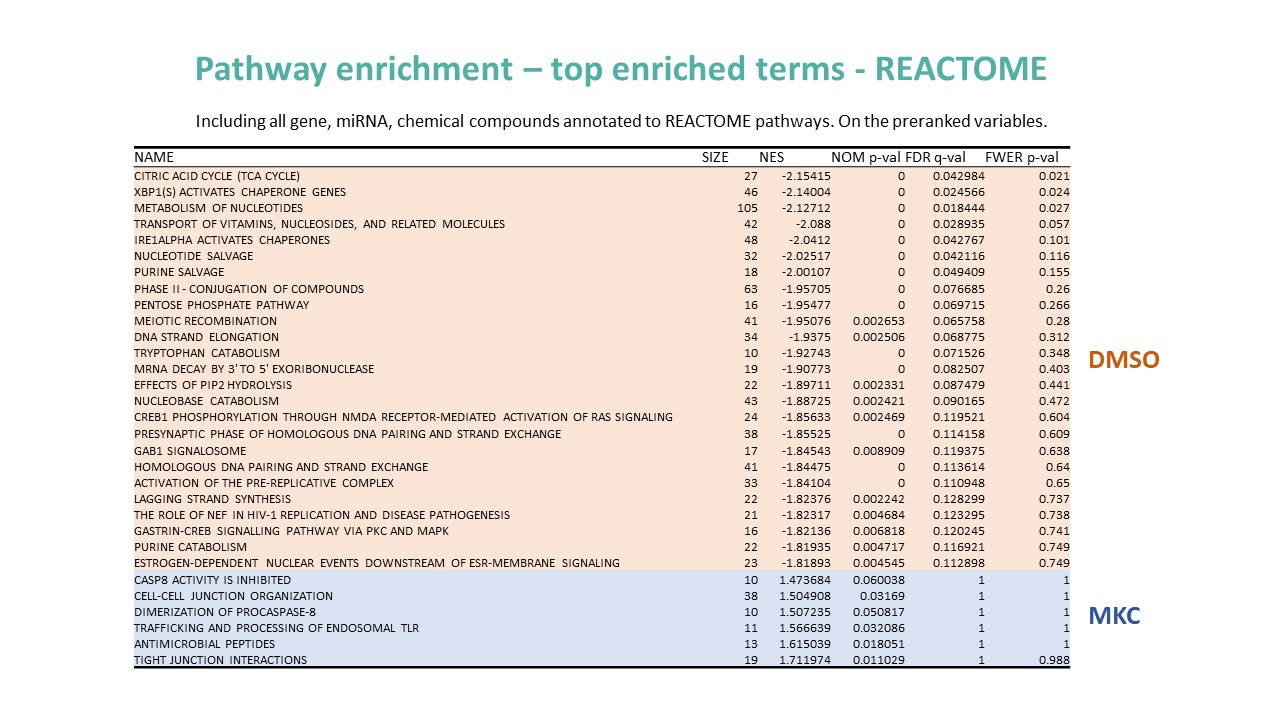
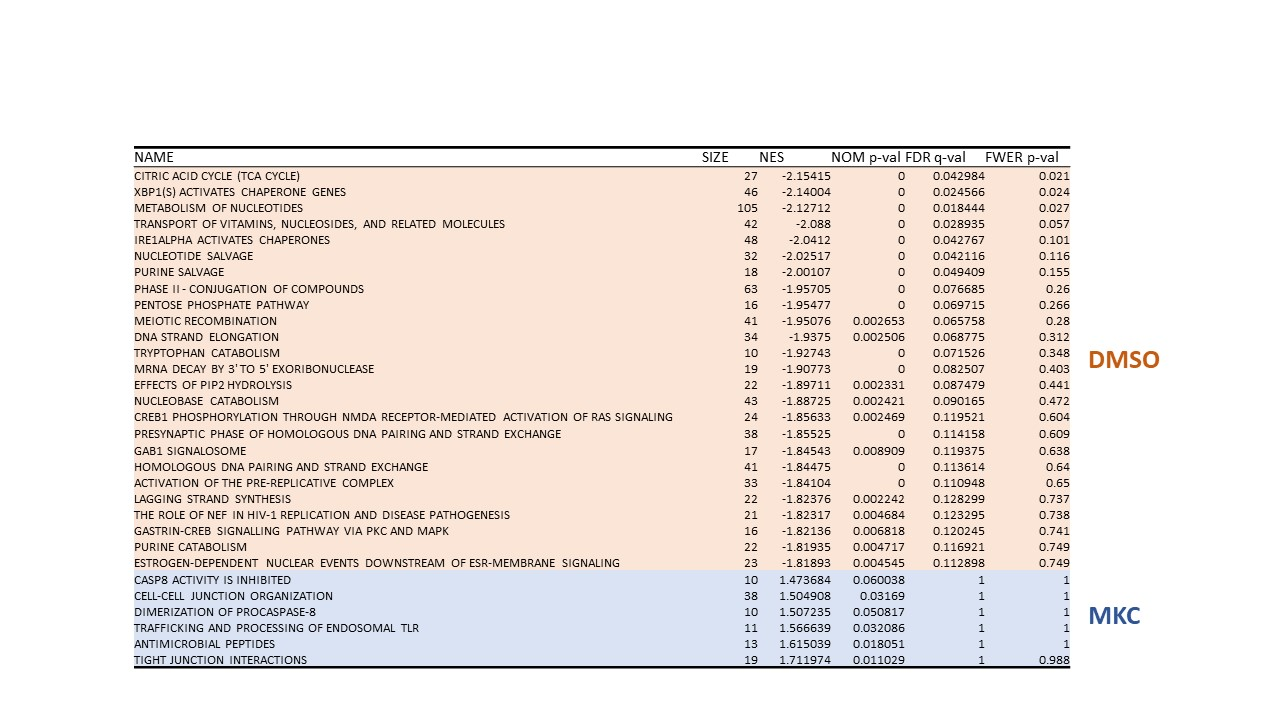
-

Changed region(s): [[0.1562, 0.0611, 0.8125, 0.1222], [0.1562, 0.1528, 0.8125, 0.1833]]

diff --git a/README.md b/README.md
@@ -27,46 +27,37 @@ We utilize a selective IRE1 inhibitor (MKC8866) to “switch off” IRE1 signall
 
 ![Slide5](https://github.com/xaitorx/OPLS-DA_Integration/blob/master/pics/Slide5.JPG)
 
-# OPLS-DA: Identifying sources of variation between DMSO - MKC
-
 ![Slide6](https://github.com/xaitorx/OPLS-DA_Integration/blob/master/pics/Slide6.JPG)
-
-# OPLS-DA: Identifying sources of variation between DMSO - MKC
 
 ![Slide7](https://github.com/xaitorx/OPLS-DA_Integration/blob/master/pics/Slide7.JPG)
 
-# OPLS-DA: Identifying sources of variation between DMSO - MKC
+# Rank all variables according to loading scores in component 1
 
 ![Slide8](https://github.com/xaitorx/OPLS-DA_Integration/blob/master/pics/Slide8.JPG)
 
-# OPLS-DA: Identifying sources of variation between DMSO - MKC
-
 ![Slide9](https://github.com/xaitorx/OPLS-DA_Integration/blob/master/pics/Slide9.JPG)
-
-# OPLS-DA: Identifying sources of variation between DMSO - MKC
 
 ![Slide10](https://github.com/xaitorx/OPLS-DA_Integration/blob/master/pics/Slide10.JPG)
 
-# OPLS-DA: Identifying sources of variation between DMSO - MKC
-
 ![Slide11](https://github.com/xaitorx/OPLS-DA_Integration/blob/master/pics/Slide11.JPG)
 
-# OPLS-DA: Identifying sources of variation between DMSO - MKC
+# Pathway enrichment – top enriched terms - REACTOME
+Including all gene, miRNA, chemical compounds annotated to REACTOME pathways. On the preranked variables.
 
 ![Slide12](https://github.com/xaitorx/OPLS-DA_Integration/blob/master/pics/Slide12.JPG)
 
-# OPLS-DA: Identifying sources of variation between DMSO - MKC
-
 ![Slide13](https://github.com/xaitorx/OPLS-DA_Integration/blob/master/pics/Slide13.JPG)
 
-# OPLS-DA: Identifying sources of variation between DMSO - MKC
-
 ![Slide14](https://github.com/xaitorx/OPLS-DA_Integration/blob/master/pics/Slide14.JPG)
+Plenty of terms enriched at the bottom of the ranking (DMSO phenotype), but few at the top (MKC phenotype)
+Explanation? Why top of ranking is more heterogeneous?
 
-# OPLS-DA: Identifying sources of variation between DMSO - MKC
+
+# Summarization of top enriched terms - REACTOME
+Pathway information is inherently redundant, as genes often participate in multiple pathways, and databases may organize pathways hierarchically by including general and specific pathways with many shared genes. Consequently, pathway enrichment analysis often highlights several versions of the same pathway. Collapsing redundant pathways into a single biological theme simplifies interpretation.
 
 ![Slide15](https://github.com/xaitorx/OPLS-DA_Integration/blob/master/pics/Slide15.JPG)
 
-# OPLS-DA: Identifying sources of variation between DMSO - MKC
-
+*Post-analysis – Overlapping signatures*
+Add more gene sets to an existing network. This is done by calculating the overlap between gene sets of the current network and other signature gene set files, spotting significantly overlapping signatures. Help give biological context.
 ![Slide16](https://github.com/xaitorx/OPLS-DA_Integration/blob/master/pics/Slide16.JPG)
